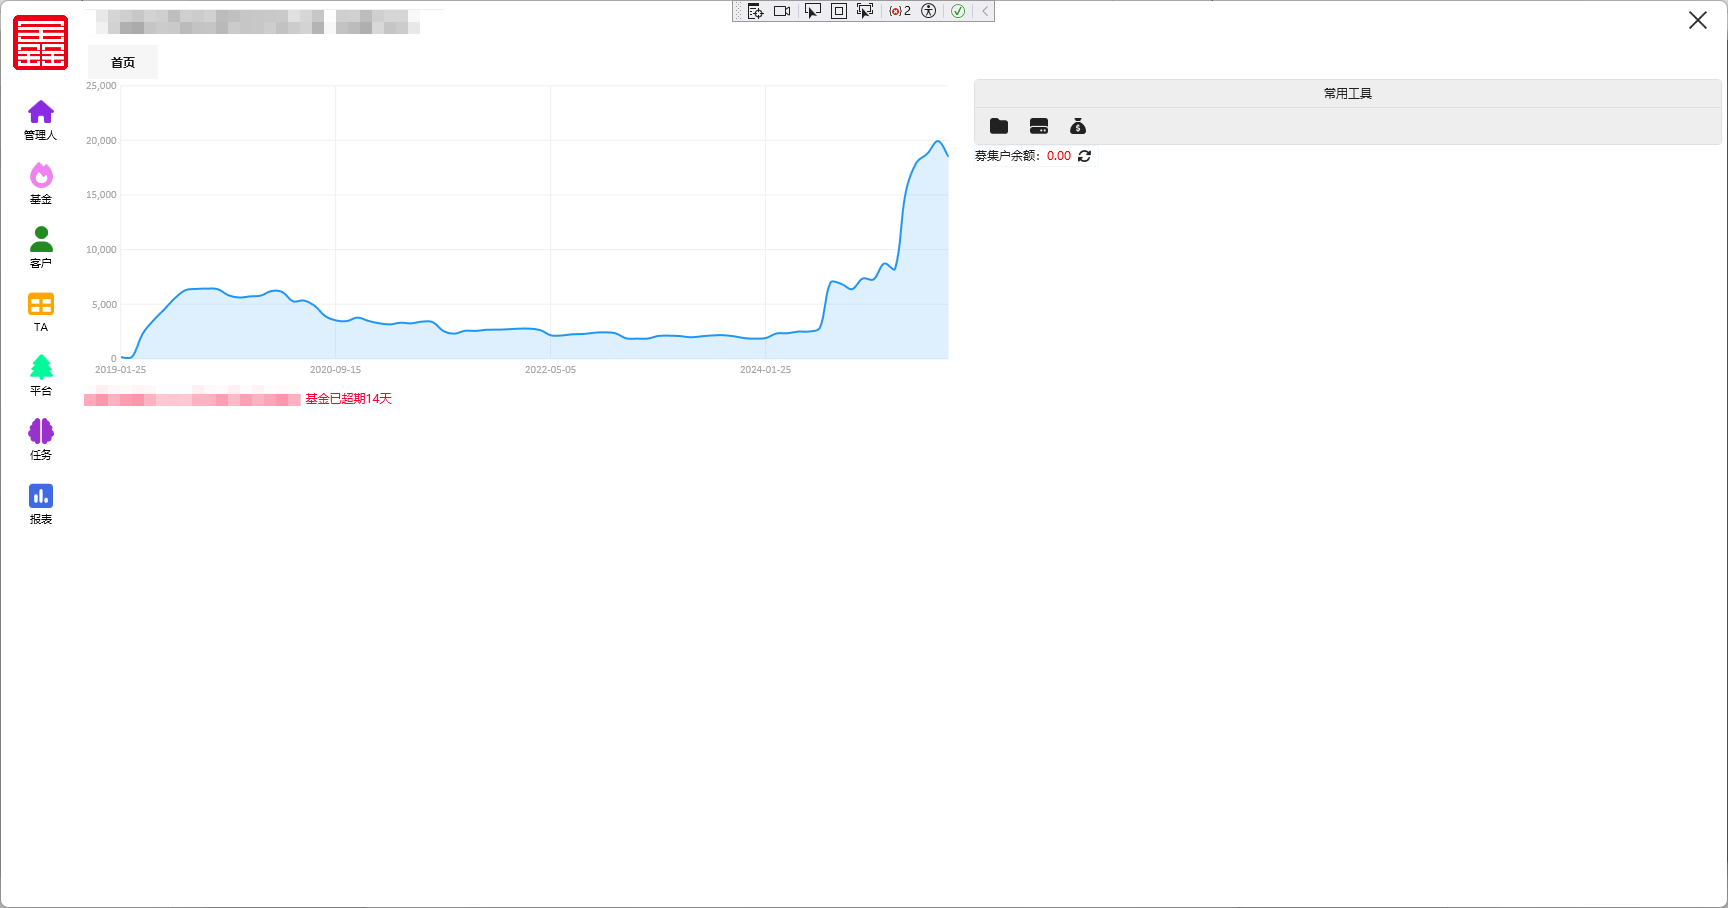
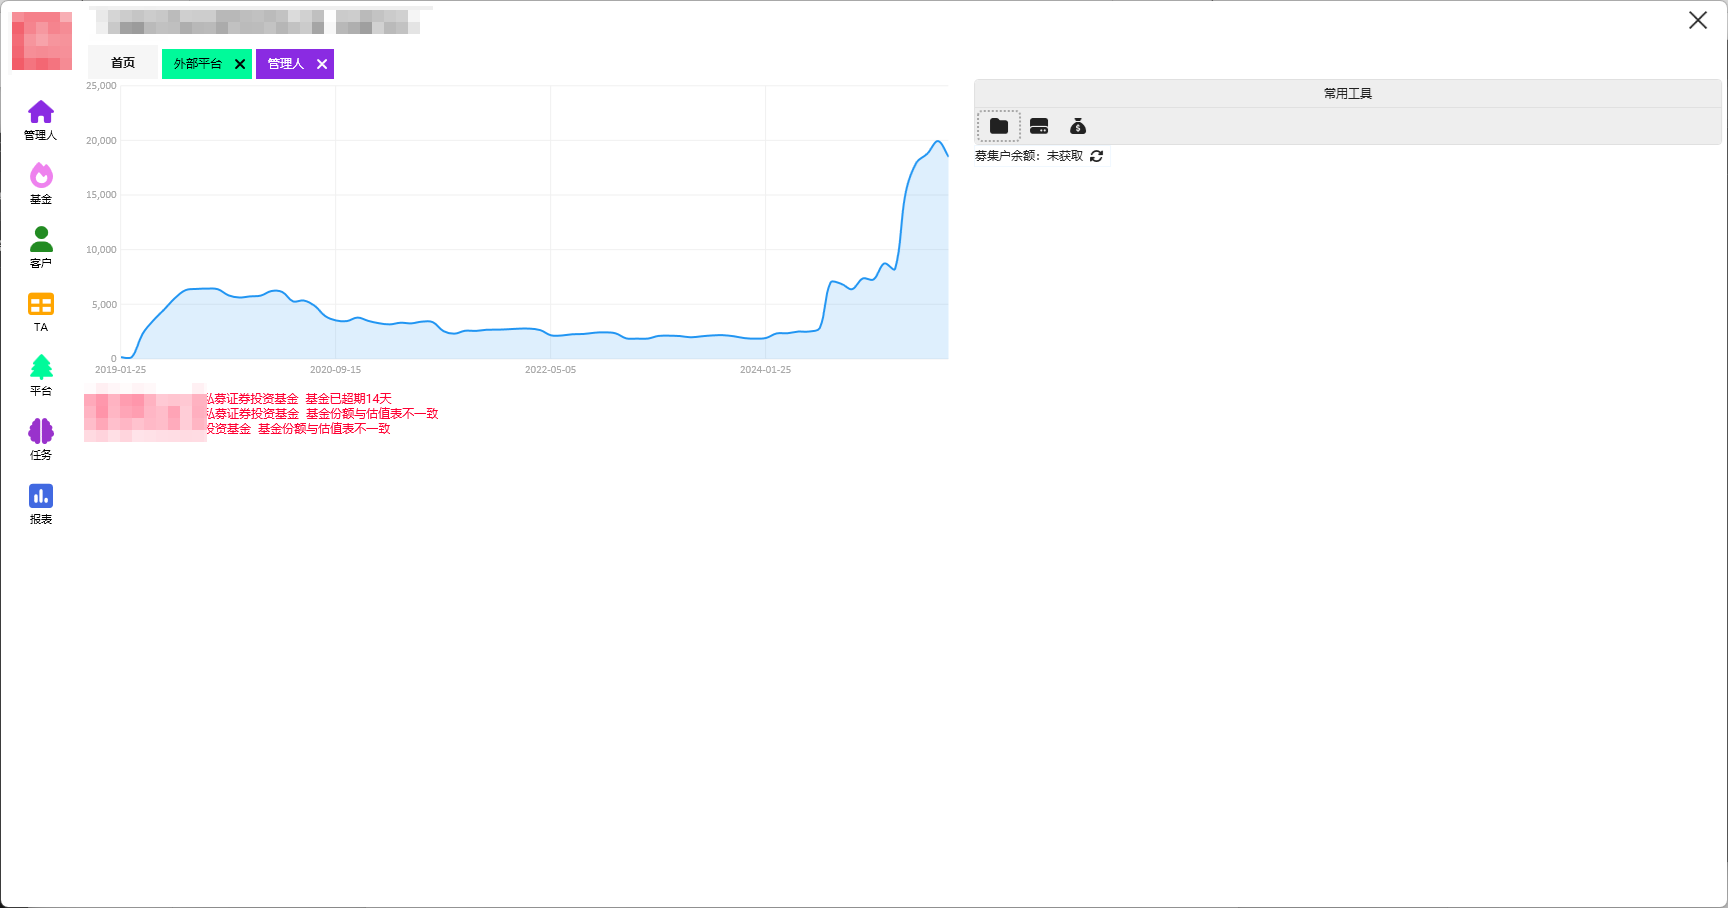
修改readme

diff --git a/README.md b/README.md
@@ -1,4 +1,12 @@
 连接管理人、托管外包、基协、电子合同平台
-![image](https://github.com/user-attachments/assets/53673bd0-f740-4f49-abed-cd2e02b032ae)
+
+
+
+# 首页
+1. 历史规模图
+2. 常用工具集
+3. 各类提示信息
+3. 托管提示信息
+
 
 ![Home](readme/home.png)
